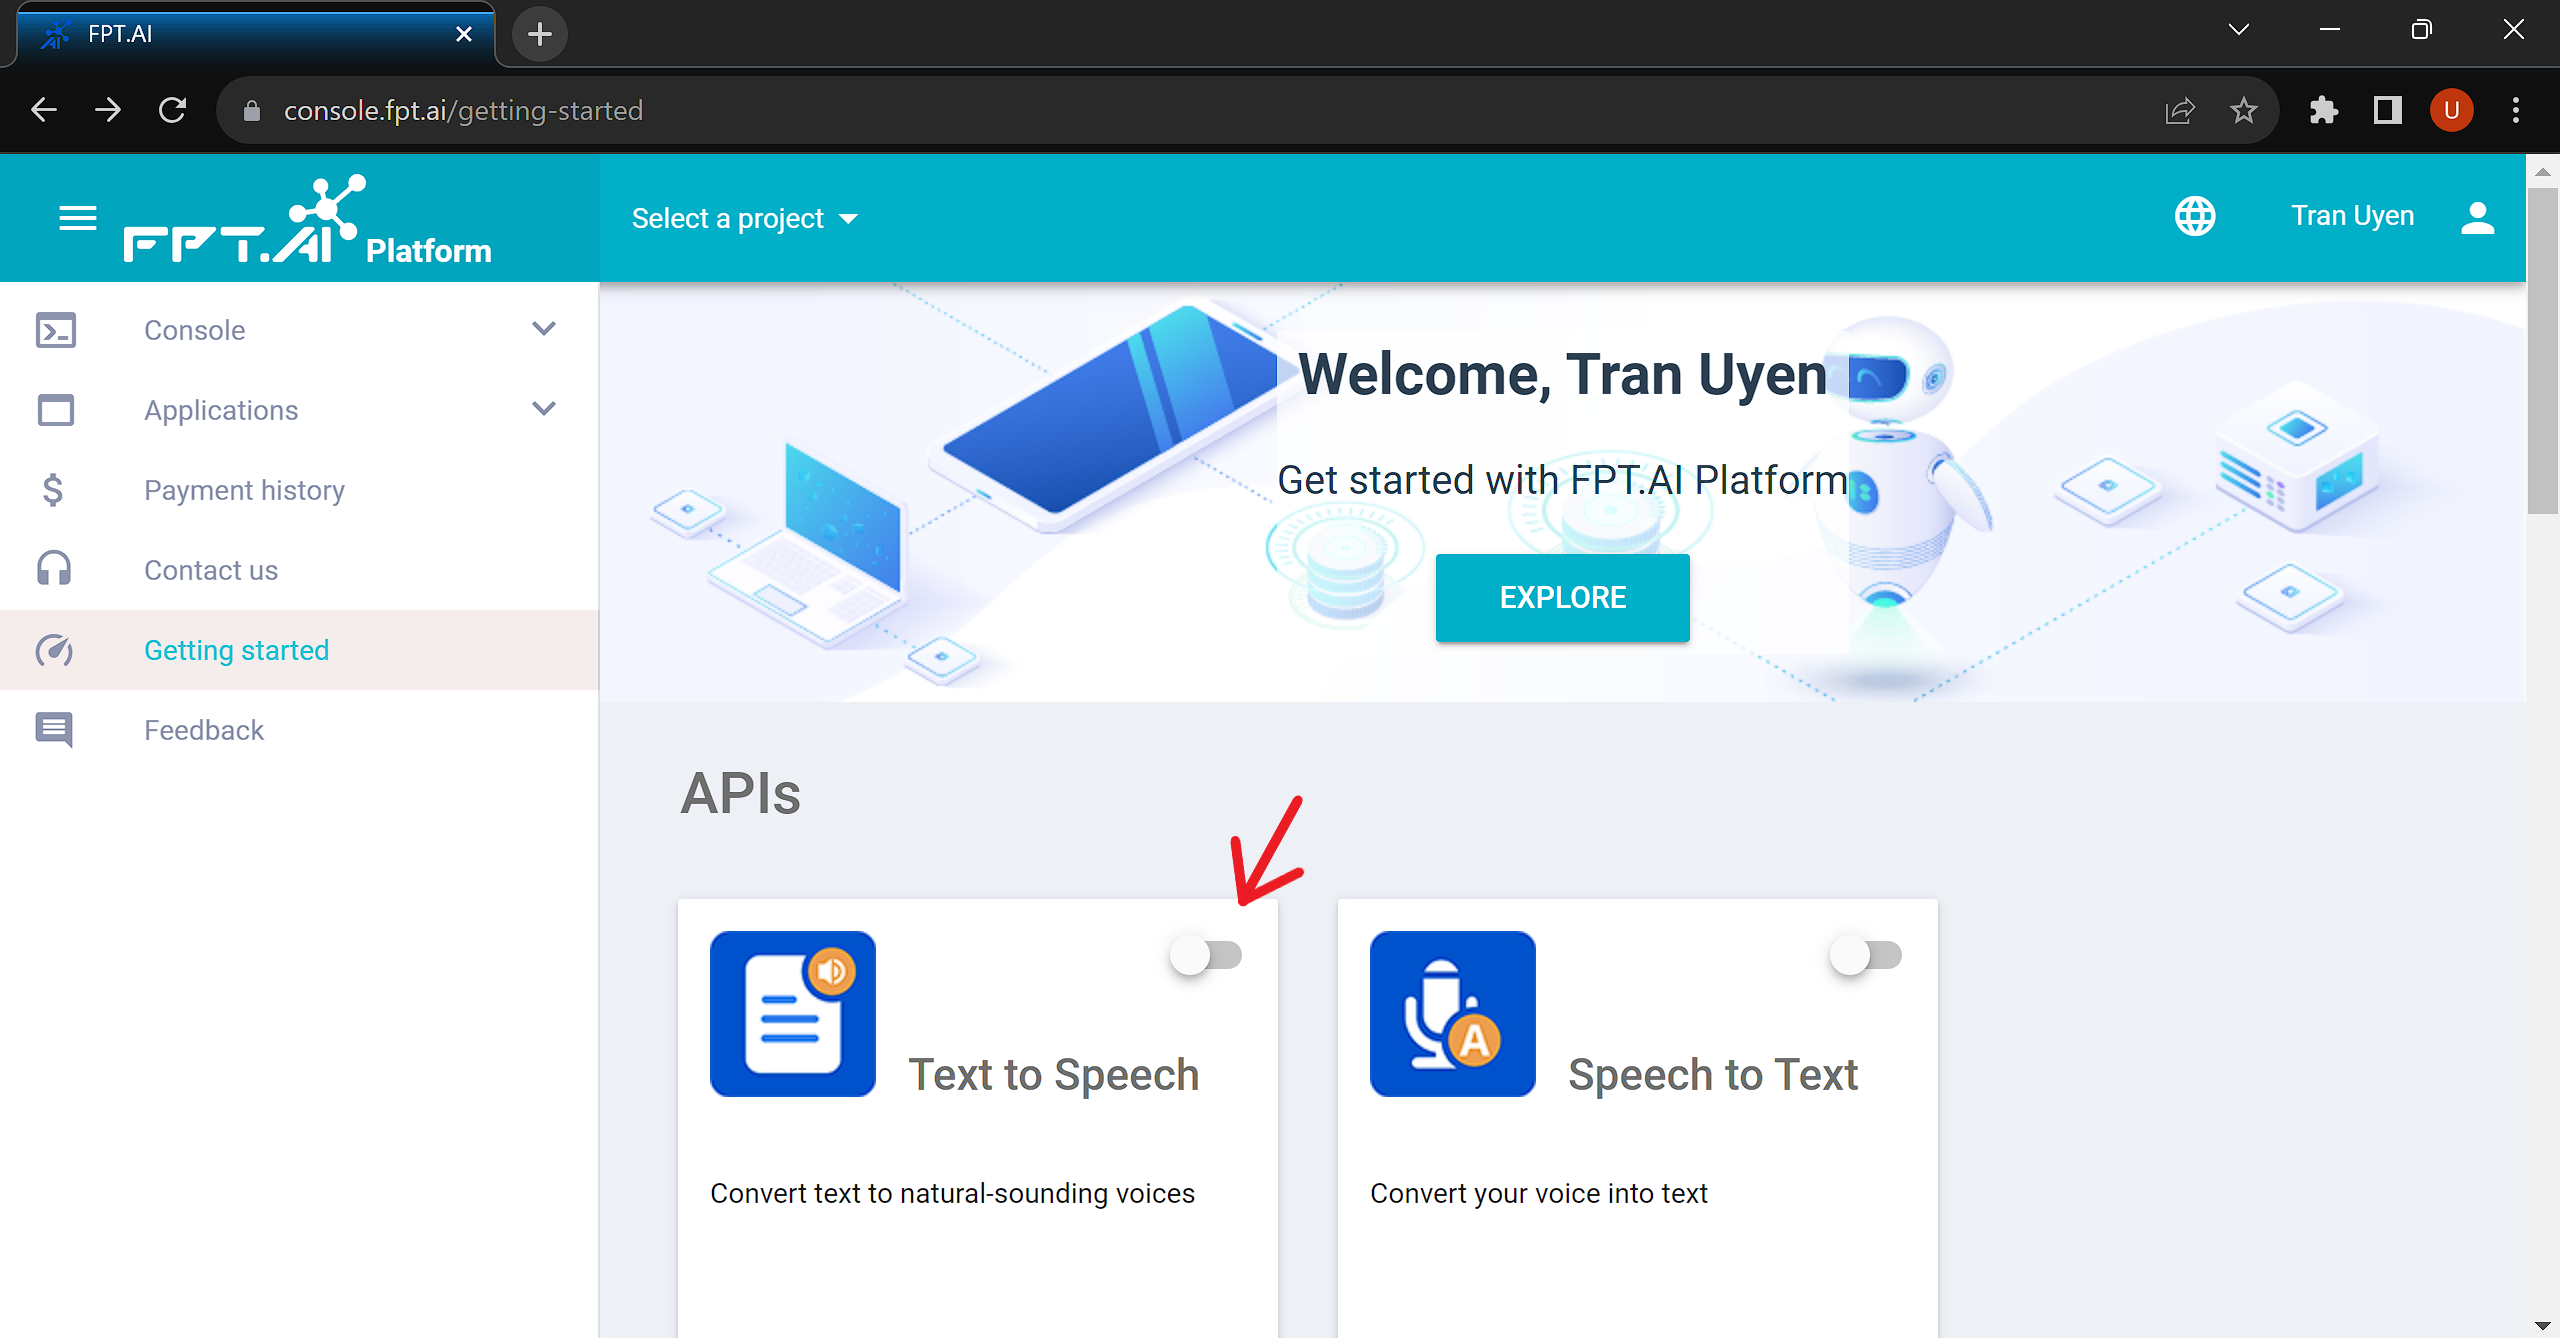
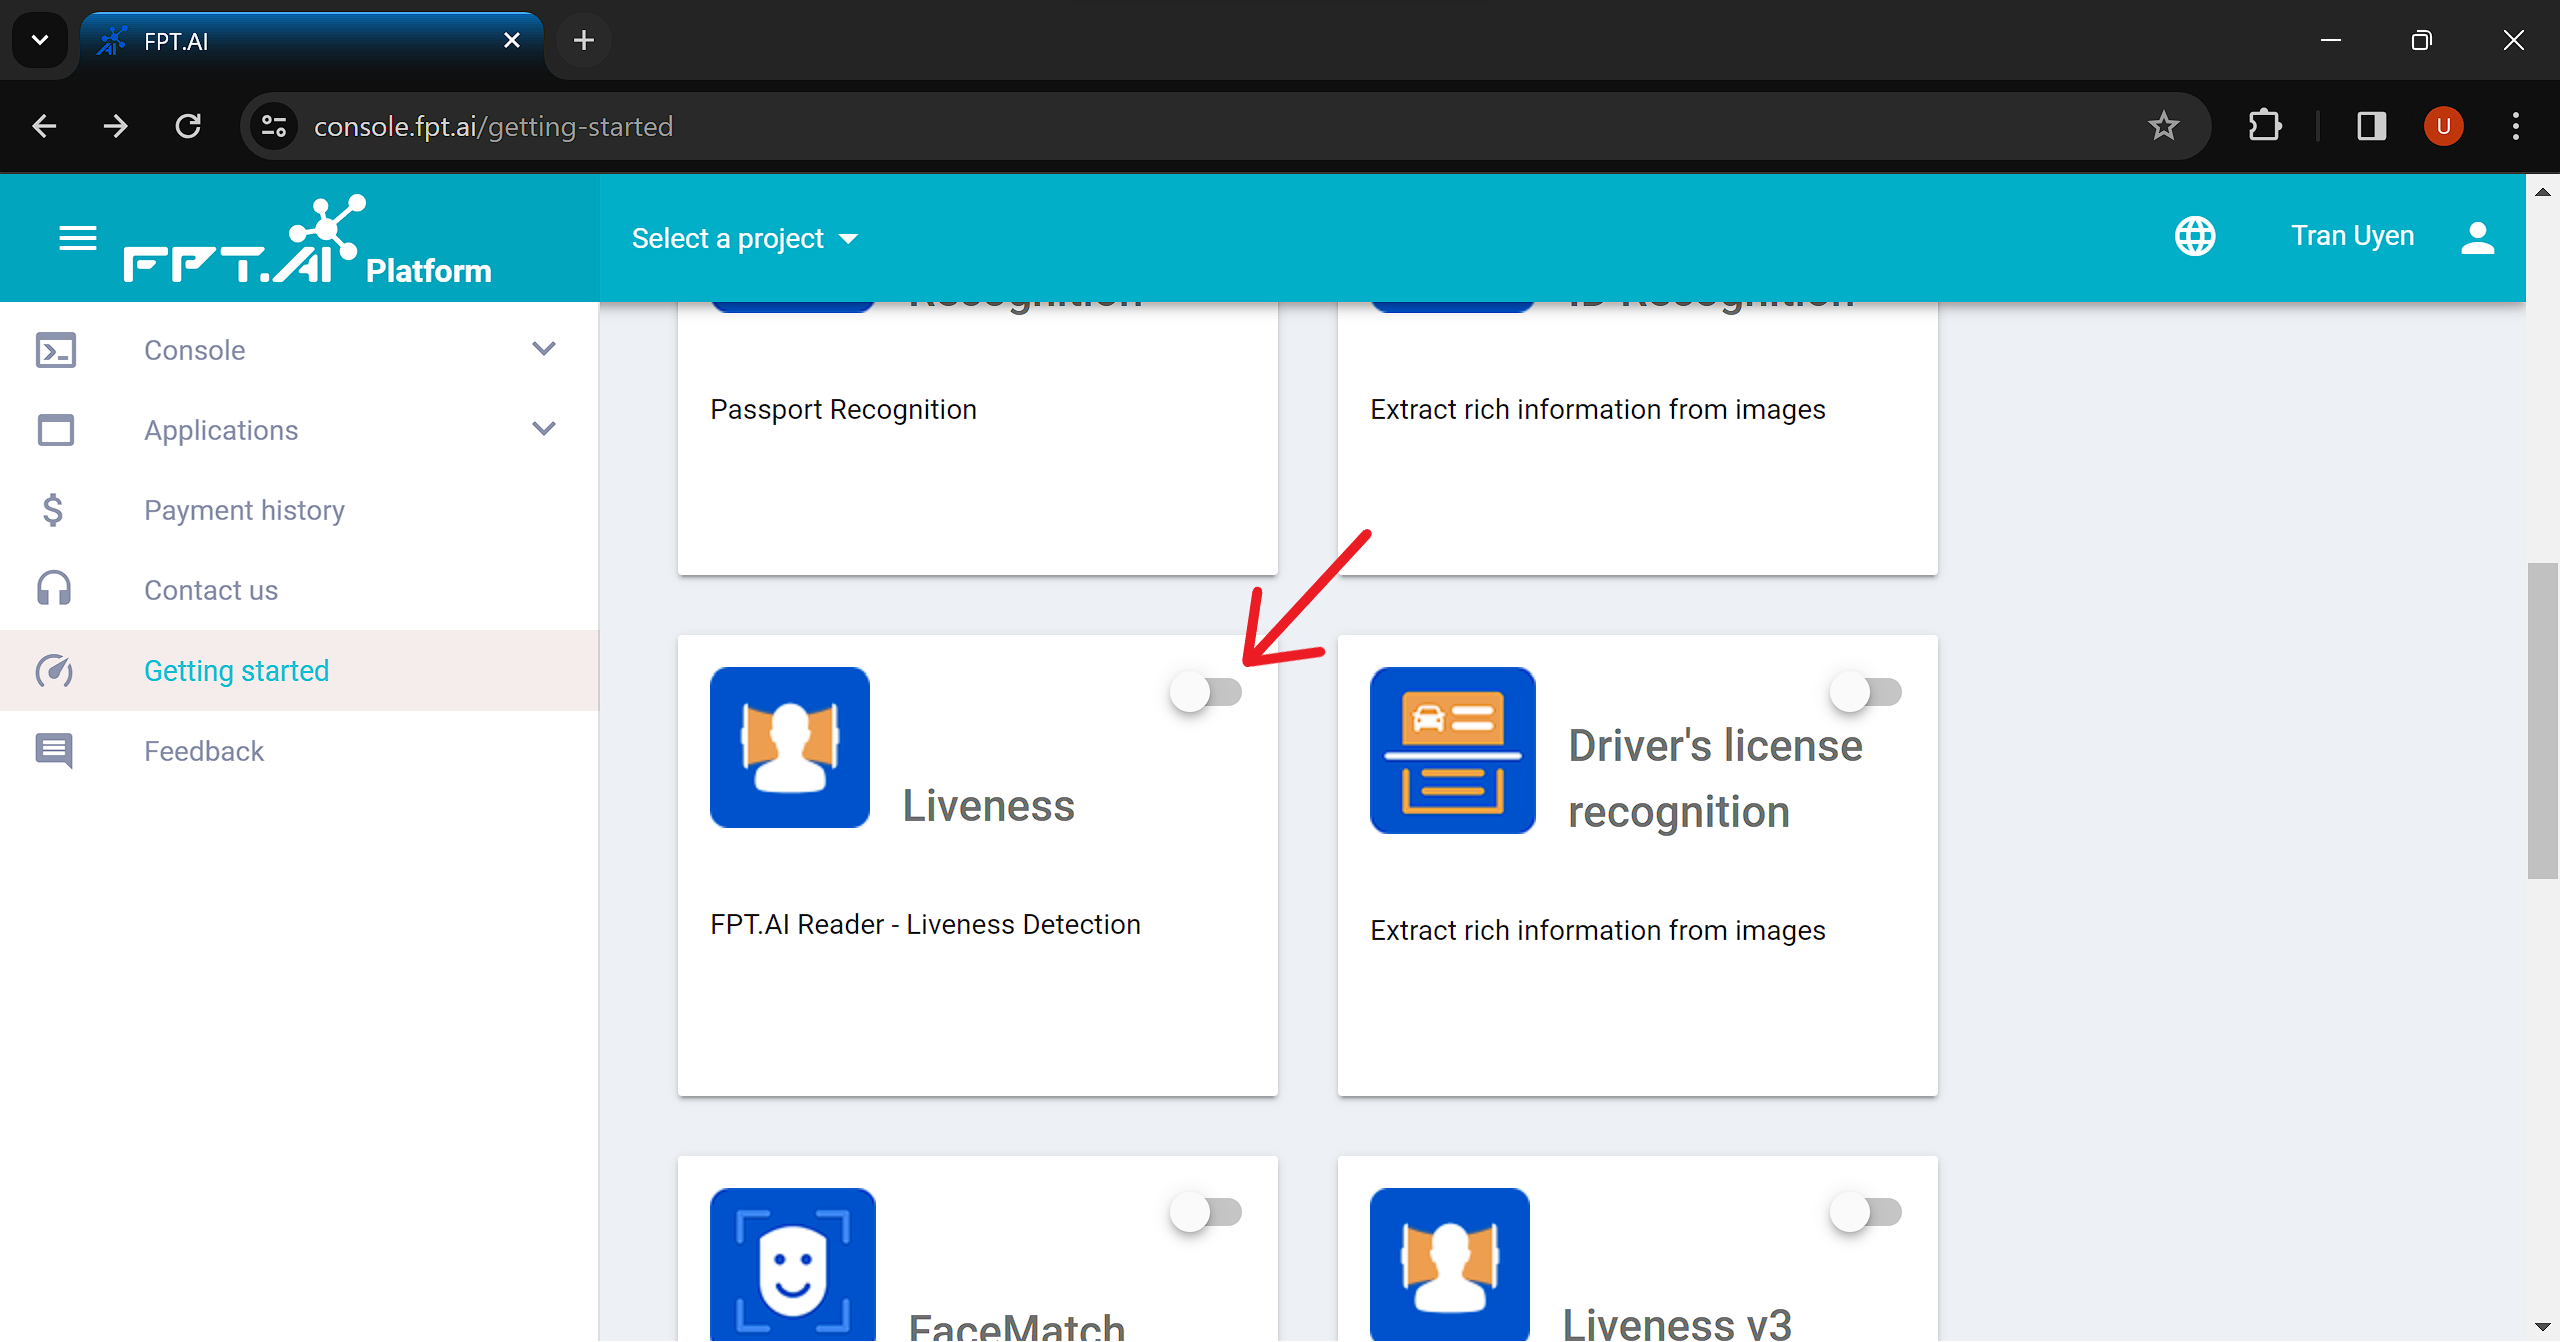
update get FPTAI Key

diff --git a/api.html b/api.html
@@ -98,7 +98,7 @@
         @media (max-width: 768px) {
             .navbar1 {
                 display: none;
-            }
+            };
         }
     </style>
 </head>
@@ -142,7 +142,7 @@
                         </li>
                         <li class="Guide" id="step-4">
 
-                            Đặt tên gợi nhớ và chọn Text-to-speech.
+                            Đặt tên gợi nhớ và chọn Liveness.
                             <img src="images/getapi/4Yfhs3L.png" style="width: 100%; height: auto; margin-top: 20px" alt="Hướng dẫn 4">
                         </li>
 

diff --git a/navbar.html b/navbar.html
@@ -225,4 +225,5 @@
             padding: 0;
         }
     }
+    
 </style>
